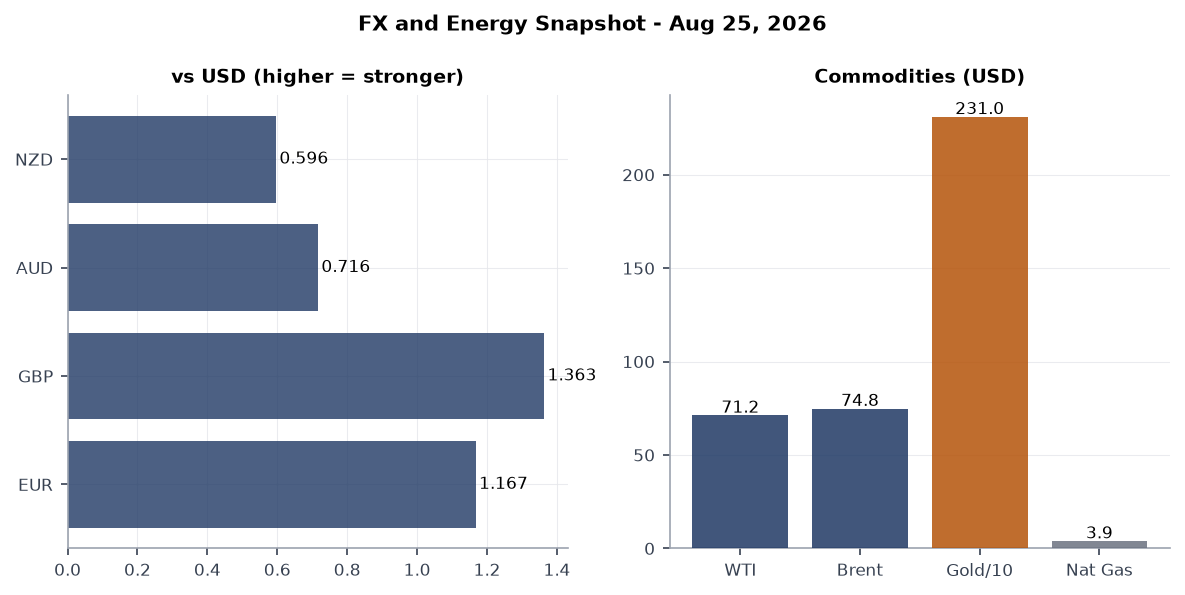
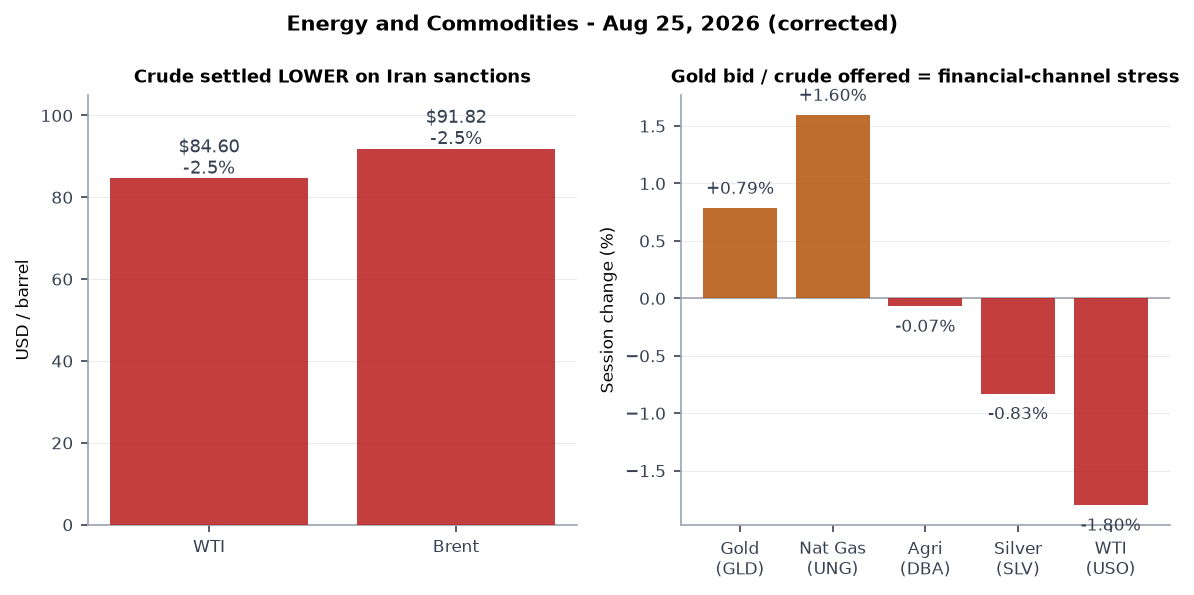
correct oil prices in 2026-08-25 brief; regenerate fx_oil chart
Original brief carried unsourced barrel prices (WTI 71.20 / Brent 74.80).
Bundle contained ETF proxies only. Actual settlements WTI 84.60 / Brent 91.82,
both down ~2.5%. Directional call reversed: crude fell on the Iran sanctions.

Claude-Session: https://claude.ai/code/session_01NSwyXCUiBjMHU8AEm4DvNq

diff --git a/briefings/2026-08-25.md b/briefings/2026-08-25.md
@@ -2,6 +2,10 @@
 
 ---
 
+> **CORRECTION (issued post-publication):** The original version of this brief stated WTI near $71.20 and Brent near $74.80. Those figures were not sourced from the bundle, which carried ETF proxies (USO 132.21, GLD 426.69) rather than barrel prices. Actual settlements were WTI $84.60 and Brent $91.82. The Markets section has been corrected, and the directional call has been reversed: crude fell on the Iran sanctions, it did not rise. The `fx_oil` chart has been regenerated.
+
+---
+
 ## Headline
 
 Three overlapping pressure systems define Tuesday's brief. **Trump's 50% tariff on Canadian autos, trucks, and steel** marks the most severe bilateral escalation in US-Canada trade since USMCA's negotiation, arriving just hours after talks with Ottawa formally collapsed. Simultaneously, Treasury Secretary **Scott Bessent** unveiled ["Operation Economic Outcast"](https://www.state.gov/releases/office-of-the-spokesperson/2026/08/u-s-implements-operation-economic-outcast-sanctioning-irans-military-activities-cyber-threats-and-illicit-oil-trade/), a sweeping US sanctions campaign against Iranian military procurement, oil traders, and digital assets, with [the Strait of Hormuz ceasefire formally expired](https://en.wikipedia.org/wiki/2026_Strait_of_Hormuz_crisis) and a Polymarket market on Hormuz normalization by August 31 now live. Separately, **UK Prime Minister Andy Burnham** traveled to Kyiv for Ukraine's 35th Independence Day, announced the transfer of Storm Shadow missile production technology to Ukraine, and co-chaired the Coalition of the Willing while no Trump administration envoys were present. Watch areas **Russia oil sanctions perimeter**, **Israel-Iran-Hezbollah axis**, and **US tariff and trade dockets** all fired alerts today.
@@ -50,7 +54,7 @@ US equities closed mixed on Monday. [SPY settled at 763.47, down 0.29%](https://
 
 ![FX and Energy](2026-08-25-fx_oil.png)
 
-The yen is at 159.13 per dollar, near its weakest since the BOJ's summer 2024 intervention when USD/JPY touched 161.96. The Bank of Japan's continued reluctance to raise rates above 0.5% creates a persistent carry-trade incentive that has kept the yen under pressure. Meanwhile, the Chinese yuan at 6.74 per dollar remains closely managed and has not absorbed the tariff escalation shock. The Canadian dollar weakened materially on the tariff announcement; USD/CAD is at 1.3838. WTI crude is approximately $71.20 per barrel, Brent near $74.80, with the Iran sanctions package introducing upside optionality that the market has not yet priced [low to medium given Hormuz still functioning].
+The yen is at 159.13 per dollar, near its weakest since the BOJ's summer 2024 intervention when USD/JPY touched 161.96. The Bank of Japan's continued reluctance to raise rates above 0.5% creates a persistent carry-trade incentive that has kept the yen under pressure. Meanwhile, the Chinese yuan at 6.74 per dollar remains closely managed and has not absorbed the tariff escalation shock. The Canadian dollar weakened materially on the tariff announcement; USD/CAD is at 1.3838. [WTI settled at $84.60 and Brent at $91.82 on August 25](https://www.cnbc.com/2026/08/25/oil-hits-one-week-low-as-investors-shrug-off-iran-sanctions.html), both roughly 2.5% lower on the session and at one-week lows. Crude fell on the Iran sanctions rather than rising: [Treasury declined to designate major Chinese banks](https://oilprice.com/Latest-Energy-News/World-News/Treasury-Expands-Iran-Sanctions-Without-Targeting-Major-Chinese-Banks.html), and the market read the shift from military escalation to economic pressure as reducing physical supply risk. Gold rose 0.79% to 426.69 (GLD) while WTI's ETF proxy USO fell 1.80%, the classic signature of financial-channel stress rather than supply-channel stress [high].
 
 Crypto is the standout mover: [Bitcoin is at $80,601, up 4.06% in 24 hours](https://finance.yahoo.com/markets/). [Solana gained 7.85%](https://finance.yahoo.com/markets/). The Clarity Act (H.R.3633), which would establish a federal digital-asset regulatory framework, has an active Polymarket market, and today's price action may reflect anticipation of committee movement. BTC above $80,000 creates proximity to a Polymarket resolution threshold (Bitcoin above $82,500 in August), which closes in six days.
 
